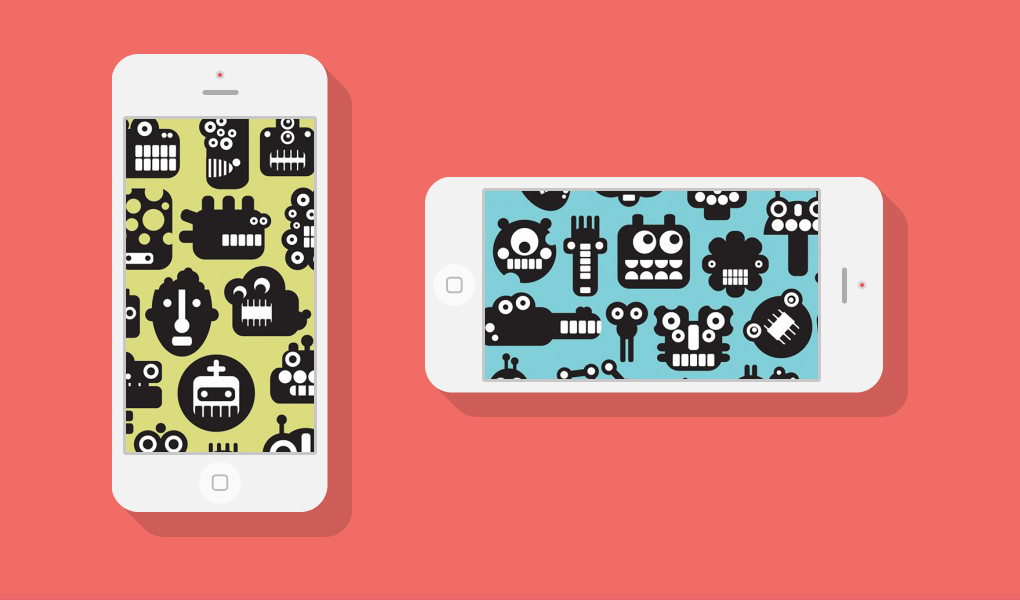
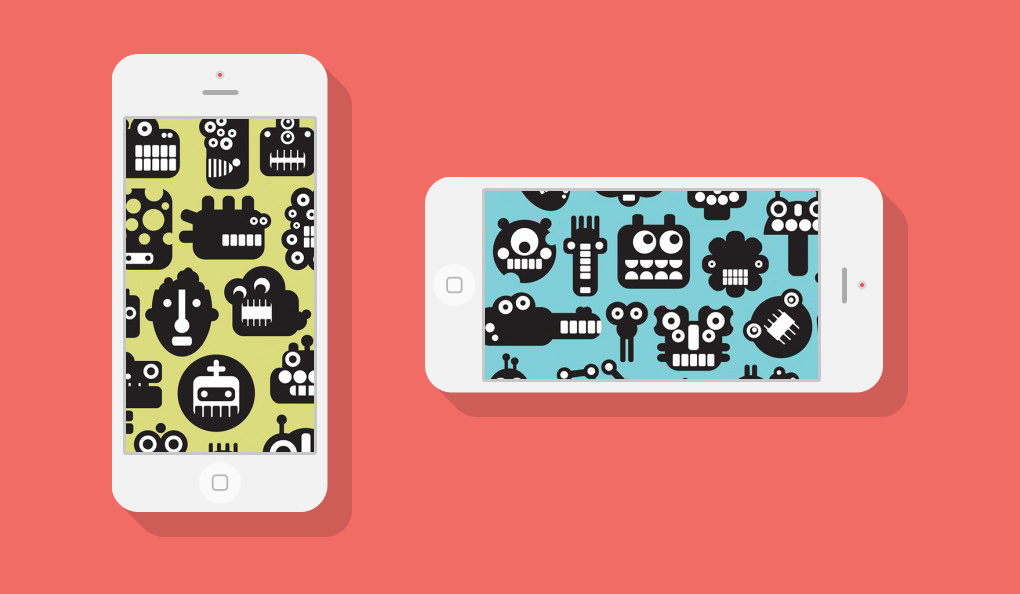
feat: slider

diff --git a/index.html b/index.html
@@ -10,7 +10,7 @@
       type="image/x-icon"
       href="./assets/images/favicon.ico"
     />
-    <link rel="stylesheet" href="./fonts.css">
+    <link rel="stylesheet" href="./fonts.css" />
     <link rel="stylesheet" href="./styles.css" />
     <script src="script.js"></script>
   </head>
@@ -46,7 +46,7 @@
       </div>
     </header>
     <section class="section1 section-hr section-hr--slider">
-      <div class="container">
+      <!-- <div class="container">
         <div class="controls">
           <button class="arrow arrow--left" title="left"></button>
           <button class="arrow arrow--right" title="right"></button>
@@ -63,35 +63,58 @@
             <div class="phone__display"></div>
           </div>
         </div>
+      </div> -->
+
+      <div class="container">
+        <div class="slider">
+          <div class="slider__control">
+            <button class="arrow arrow--left" title="left"></button>
+            <button class="arrow arrow--right" title="right"></button>
+          </div>
+          <div class="slider__container">
+            <a class="slider__item slider__item--active" href="#">
+              <img src="./assets/images/slider/slide1.png" alt="Smartphone 1" />
+            </a>
+            <a class="slider__item" href="#">
+              <img src="./assets/images/slider/slide2.png" alt="Smartphone 2" />
+            </a>
+          </div>
+        </div>
       </div>
     </section>
     <section id="services" class="section2 section-hr section-hr--services">
       <div class="container">
         <h2 class="head">Our Services</h2>
         <p class="text">
-          Fusce dapibus, tellus ac cursus commodo, tortor mauris condimentum. Duis mollis, non commodo luctus, nisi erat porttitor ligula, eget lacinia odio sem nec elit. Fusce dapibus, tellus ac cursus commodo, tortor mauris condimentum nibh.  
+          Fusce dapibus, tellus ac cursus commodo, tortor mauris condimentum.
+          Duis mollis, non commodo luctus, nisi erat porttitor ligula, eget
+          lacinia odio sem nec elit. Fusce dapibus, tellus ac cursus commodo,
+          tortor mauris condimentum nibh.
         </p>
-        
+
         <ul class="services services--first">
           <li class="services__item">
             <div class="services__picture services__picture--pen"></div>
             <h3 class="services__head">Custom Design</h3>
             <p class="services__text">
-              Curabitur vestibulum eget mauris quis laoreet. Phasellus in quam laoreet, viverra lacus ut, ultrices velit.
+              Curabitur vestibulum eget mauris quis laoreet. Phasellus in quam
+              laoreet, viverra lacus ut, ultrices velit.
             </p>
           </li>
           <li class="services__item">
             <div class="services__picture services__picture--bulb"></div>
             <h3 class="services__head">Inovative Ideas</h3>
             <p class="services__text">
-              Quisque luctus, quam eget molestie commodo, lacus purus cursus purus, nec rutrum tellus dolor id lorem.
+              Quisque luctus, quam eget molestie commodo, lacus purus cursus
+              purus, nec rutrum tellus dolor id lorem.
             </p>
           </li>
           <li class="services__item">
             <div class="services__picture services__picture--heart"></div>
             <h3 class="services__head">Love Is The Answer</h3>
             <p class="services__text">
-              Nulla sed nunc et tortor luctus faucibus. Morbi at aliquet turpis, et consequat felis. Quisque condimentum.
+              Nulla sed nunc et tortor luctus faucibus. Morbi at aliquet turpis,
+              et consequat felis. Quisque condimentum.
             </p>
           </li>
         </ul>
@@ -100,18 +123,25 @@
             <div class="services__picture services__picture--phone"></div>
             <h3 class="services__head">Responsive Layout</h3>
             <p class="services__text">
-              Sed porttitor placerat rhoncus. In at nunc tellus. Maecenas blandit nunc ligula. Praesent elit leo.
+              Sed porttitor placerat rhoncus. In at nunc tellus. Maecenas
+              blandit nunc ligula. Praesent elit leo.
             </p>
           </li>
           <li class="services__item">
             <div class="services__picture services__picture--bubble"></div>
             <h3 class="services__head">24 / 7 Support</h3>
-            <p class="services__text">Vivamus vel quam lacinia, tincidunt dui non, vehicula nisi. Nulla a sem erat. Pellentesque egestas venenatis lorem .</p>
+            <p class="services__text">
+              Vivamus vel quam lacinia, tincidunt dui non, vehicula nisi. Nulla
+              a sem erat. Pellentesque egestas venenatis lorem .
+            </p>
           </li>
           <li class="services__item">
             <div class="services__picture services__picture--star"></div>
             <h3 class="services__head">Feel Like A Star</h3>
-            <p class="services__text">Quisque hendrerit purus dapibus, ornare nibh vitae, viverra nibh. Fusce vitae aliquam tellus.</p>
+            <p class="services__text">
+              Quisque hendrerit purus dapibus, ornare nibh vitae, viverra nibh.
+              Fusce vitae aliquam tellus.
+            </p>
           </li>
         </ul>
       </div>
@@ -319,7 +349,12 @@
                 class="textarea textarea--feedback feedback-form__description"
                 placeholder="Describe your project in detail..."
               ></textarea>
-              <button type="submit" class="btn btn--submit feedback-form__submit">Submit</button>
+              <button
+                type="submit"
+                class="btn btn--submit feedback-form__submit"
+              >
+                Submit
+              </button>
             </form>
           </div>
           <div class="feedback-controls__info">
@@ -371,6 +406,5 @@
       </div>
     </footer>
     <!-- end singolo3 -->
-    
   </body>
 </html>

diff --git a/styles.css b/styles.css
@@ -187,13 +187,30 @@ header.header {
   background-color: #fff;
 }
 
-.controls {
+.slider__control {
   position: absolute;
   top: 45.5%;
   right: 0;
   left: 0;
   margin: 0 auto;
   max-width: 960px;
+  z-index: 2;
+}
+
+.slider__container {
+  position: relative;
+  overflow: hidden;
+}
+
+.slider__item {
+  position: absolute;
+  transition: all 0.3s;
+  transform: translateX(101%);
+}
+
+.slider__item--active {
+  z-index: 1;
+  transform: translateX(0);
 }
 
 .arrow {

diff --git a/script.js b/script.js
@@ -12,6 +12,8 @@ window.addEventListener("load", function() {
     description: "Описание: "
   };
 
+  function sliderTo() {}
+
   function modal(conf) {
     console.log("c", conf);
     if (document.querySelector(".modal")) {
